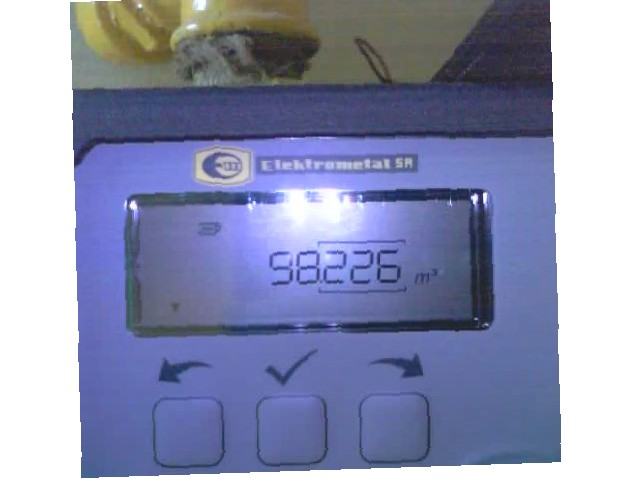
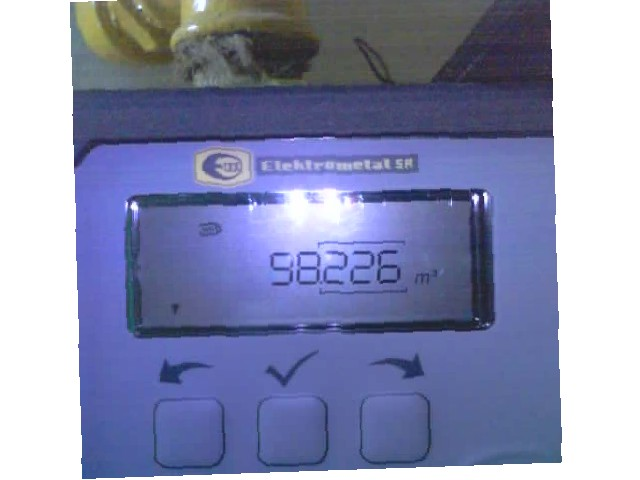
Automatyczna aktualizacja strony i danych

diff --git a/index.html b/index.html
@@ -35,11 +35,11 @@
 <body>
     <div class="container">
         <h1>Bieżący Stan Licznika</h1>
-        <div class="status">Ostatnia aktualizacja danych:<br><span class="timestamp">2026-10-27 14:42:49</span></div>
+        <div class="status">Ostatnia aktualizacja danych:<br><span class="timestamp">2026-10-27 14:48:16</span></div>
         <div class="odczyt">93498 m³</div>
         <div class="uwaga">Ostatni odczyt się nie powiódł, wyświetlana jest poprzednia poprawna wartość.</div>
         <h3>Aktualne zdjęcie z gazomierza:</h3>
-        <img src="img_tmp/alg.jpg?t=1793108569" alt="Zdjęcie licznika">
+        <img src="img_tmp/alg.jpg?t=1793108896" alt="Zdjęcie licznika">
     </div>
 </body>
 </html>
